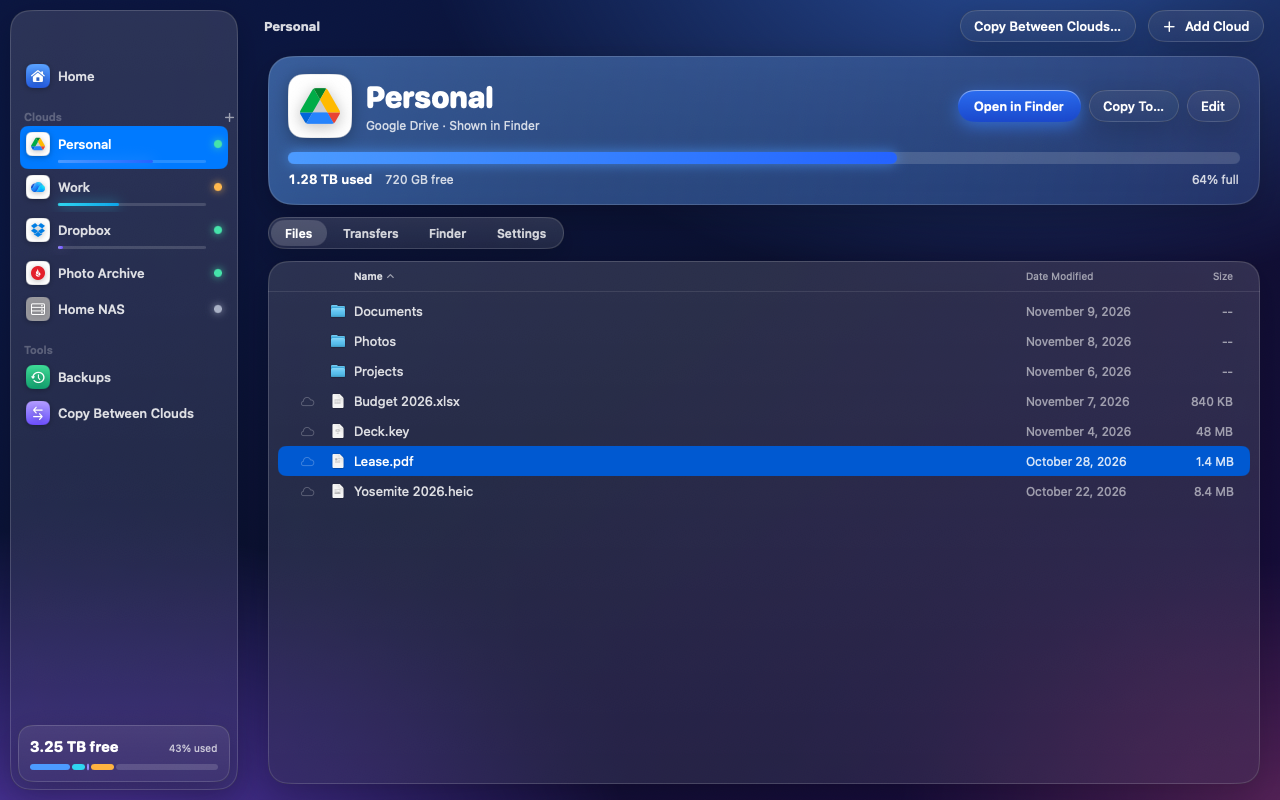
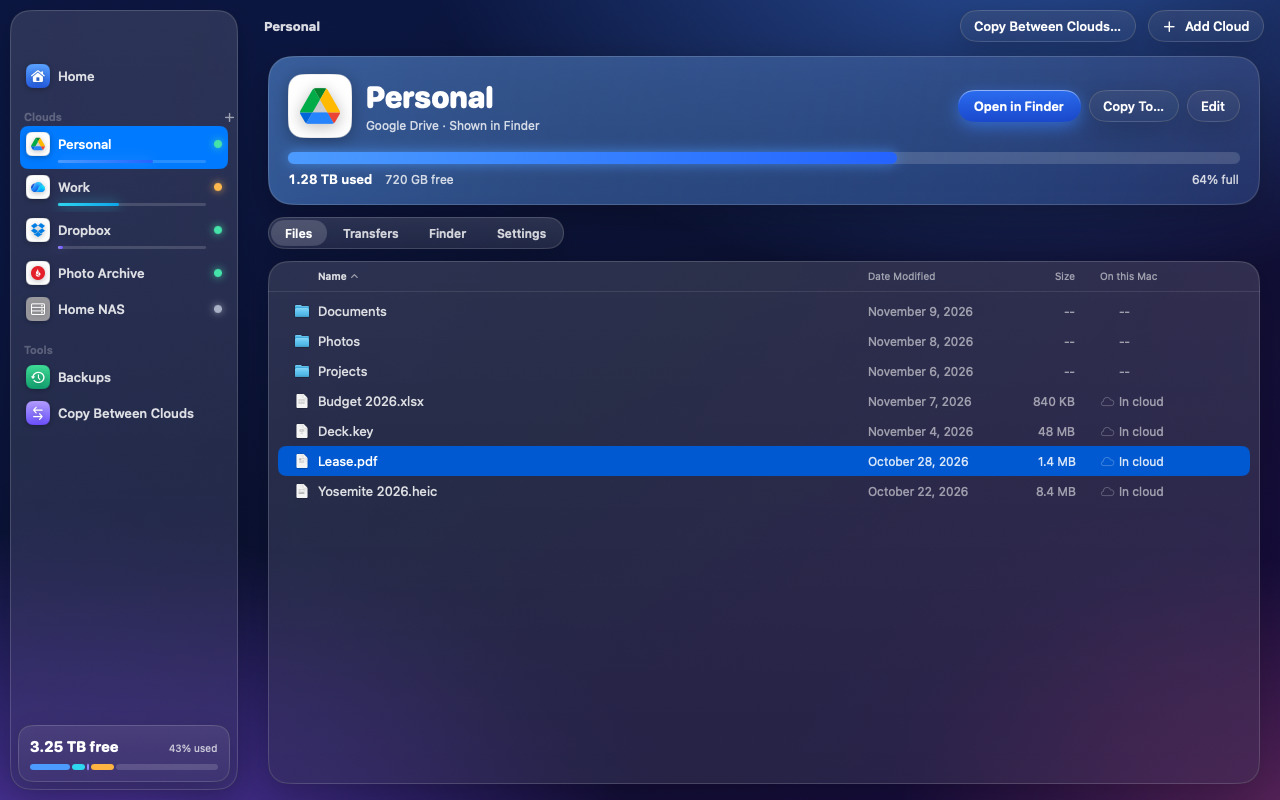
feat(browser): "On this Mac" column in the file table
A file's state was a bare glyph in a narrow column before the name.
It is now a labelled column at the end of each row: In cloud,
Downloaded, Kept on this Mac, or Copying N%. A folder shows a state
only when it is kept. The wording lives in CloudStatusLabel and is
unit tested. The column isn't sortable: state is looked up per row
after the listing is sorted.

diff --git a/Nimbus/Nimbus/Views/Browser/CloudStatusColumn.swift b/Nimbus/Nimbus/Views/Browser/CloudStatusColumn.swift
@@ -11,6 +11,11 @@ struct CloudStatusColumn: View {
     let file: FileItem
     let remote: String
     var style: StatusBadge.Style = .compact
+    /// Adds the state in words after the glyph: the file table's
+    /// "On this Mac" column.
+    var showsLabel = false
+    /// True on a selected, emphasized row, where text turns white.
+    var isInverted = false
 
     @Environment(TransferStore.self) private var transferStore
     @Environment(FileProviderBridge.self) private var bridge
@@ -36,6 +41,21 @@ struct CloudStatusColumn: View {
                     .accessibilityLabel("Kept on this Mac")
             }
             StatusBadge(state: state, style: style)
+            if showsLabel {
+                // The compact badge draws nothing for a local file (a calm
+                // column of glyphs); with words beside it, say it with a mark.
+                if state == .local, !file.isDir, !isKept {
+                    Image(systemName: "checkmark")
+                        .font(DesignSystem.Typography.caption2)
+                        .fontWeight(.semibold)
+                        .foregroundStyle(isInverted ? Color.white : DesignSystem.Color.semantic.statusOK)
+                        .accessibilityHidden(true)
+                }
+                Text(verbatim: CloudStatusLabel.text(state: state, isKept: isKept, isDirectory: file.isDir))
+                    .font(DesignSystem.Typography.callout)
+                    .foregroundStyle(isInverted ? Color.white.opacity(0.85) : DesignSystem.Color.semantic.textSecondary)
+                    .lineLimit(1)
+            }
         }
         .task(id: queryKey) {
             refreshKept()
@@ -99,5 +119,23 @@ struct CloudStatusColumn: View {
             }
         }
         return nil
+    }
+}
+
+/// The words for a file's state in the "On this Mac" column. Pure, so every
+/// case is unit tested.
+enum CloudStatusLabel {
+    static func text(state: CloudStatus, isKept: Bool, isDirectory: Bool) -> String {
+        if case .downloading(let progress) = state {
+            return "Copying \(Int((progress * 100).rounded()))%"
+        }
+        if case .error = state { return "Problem" }
+        if isKept { return "Kept on this Mac" }
+        if isDirectory { return "--" }
+        switch state {
+        case .local: return "Downloaded"
+        case .cloud, .evicted: return "In cloud"
+        case .downloading, .error: return ""
+        }
     }
 }

diff --git a/Nimbus/NimbusTests/CloudStatusLabelTests.swift b/Nimbus/NimbusTests/CloudStatusLabelTests.swift
@@ -1,0 +1,38 @@
+import Testing
+import Foundation
+@testable import Nimbus
+
+@Suite("CloudStatusLabel")
+struct CloudStatusLabelTests {
+    @Test func aFileInTheCloudOnlySaysSo() {
+        #expect(CloudStatusLabel.text(state: .cloud, isKept: false, isDirectory: false) == "In cloud")
+    }
+
+    @Test func aDownloadedFileSaysSo() {
+        #expect(CloudStatusLabel.text(state: .local, isKept: false, isDirectory: false) == "Downloaded")
+    }
+
+    @Test func keptWinsOverDownloaded() {
+        // Kept is the stronger promise: macOS won't remove it to free space.
+        #expect(CloudStatusLabel.text(state: .local, isKept: true, isDirectory: false) == "Kept on this Mac")
+        #expect(CloudStatusLabel.text(state: .cloud, isKept: true, isDirectory: false) == "Kept on this Mac")
+    }
+
+    @Test func aFolderOnlySpeaksWhenItIsKept() {
+        // A folder isn't downloaded or not as a whole; its files are.
+        #expect(CloudStatusLabel.text(state: .local, isKept: false, isDirectory: true) == "--")
+        #expect(CloudStatusLabel.text(state: .local, isKept: true, isDirectory: true) == "Kept on this Mac")
+    }
+
+    @Test func aTransferShowsItsProgress() {
+        #expect(CloudStatusLabel.text(state: .downloading(progress: 0.456), isKept: false, isDirectory: false) == "Copying 46%")
+    }
+
+    @Test func aRemovedDownloadReadsAsInCloudAgain() {
+        #expect(CloudStatusLabel.text(state: .evicted, isKept: false, isDirectory: false) == "In cloud")
+    }
+
+    @Test func anErrorIsNamed() {
+        #expect(CloudStatusLabel.text(state: .error(reason: "x"), isKept: false, isDirectory: false) == "Problem")
+    }
+}

diff --git a/Nimbus/Nimbus/Views/Browser/FileRowView.swift b/Nimbus/Nimbus/Views/Browser/FileRowView.swift
@@ -19,7 +19,7 @@ struct FileRowView: View {
 
     static let rowHeight: CGFloat = 30
     static let iconSize: CGFloat = 16
-    static let statusColumnWidth: CGFloat = 28
+    static let statusColumnWidth: CGFloat = 150
     static let dateColumnWidth: CGFloat = 120
     static let sizeColumnWidth: CGFloat = 80
 
@@ -27,10 +27,6 @@ struct FileRowView: View {
 
     var body: some View {
         HStack(spacing: DesignSystem.Spacing.s) {
-            CloudStatusColumn(file: file, remote: remote)
-                .frame(width: Self.statusColumnWidth)
-                .accessibilityLabel("Cloud status")
-
             Image(nsImage: FileIcon.image(for: file))
                 .resizable()
                 .interpolation(.high)
@@ -68,6 +64,12 @@ struct FileRowView: View {
                                  ? Color.white.opacity(0.85)
                                  : DesignSystem.Color.semantic.textSecondary)
                 .frame(width: Self.sizeColumnWidth, alignment: .trailing)
+
+            // "On this Mac": the state as a glyph and words, last so the
+            // names line up at the leading edge.
+            CloudStatusColumn(file: file, remote: remote, showsLabel: true, isInverted: invertsText)
+                .padding(.leading, DesignSystem.Spacing.l)
+                .frame(width: Self.statusColumnWidth, alignment: .leading)
         }
         .padding(.horizontal, DesignSystem.Spacing.s)
         .frame(height: Self.rowHeight)

diff --git a/Nimbus/Nimbus/Views/Browser/FileTable.swift b/Nimbus/Nimbus/Views/Browser/FileTable.swift
@@ -54,8 +54,6 @@ struct FileTableHeader: View {
     var body: some View {
         HStack(spacing: DesignSystem.Spacing.s) {
             Color.clear
-                .frame(width: FileRowView.statusColumnWidth, height: 1)
-            Color.clear
                 .frame(width: FileRowView.iconSize, height: 1)
             header("Name", field: .name, alignment: .leading)
                 .frame(maxWidth: .infinity, alignment: .leading)
@@ -64,6 +62,14 @@ struct FileTableHeader: View {
                 .frame(width: FileRowView.dateColumnWidth, alignment: .leading)
             header("Size", field: .size, alignment: .trailing)
                 .frame(width: FileRowView.sizeColumnWidth, alignment: .trailing)
+            // Not sortable: a file's state is looked up per row, after the
+            // listing is already sorted.
+            Text("On this Mac")
+                .font(DesignSystem.Typography.caption)
+                .foregroundStyle(DesignSystem.Color.semantic.textSecondary)
+                .lineLimit(1)
+                .padding(.leading, DesignSystem.Spacing.l)
+                .frame(width: FileRowView.statusColumnWidth, alignment: .leading)
         }
         .padding(.horizontal, DesignSystem.Spacing.s + Self.insetStyleMargin)
         .frame(height: 30)
